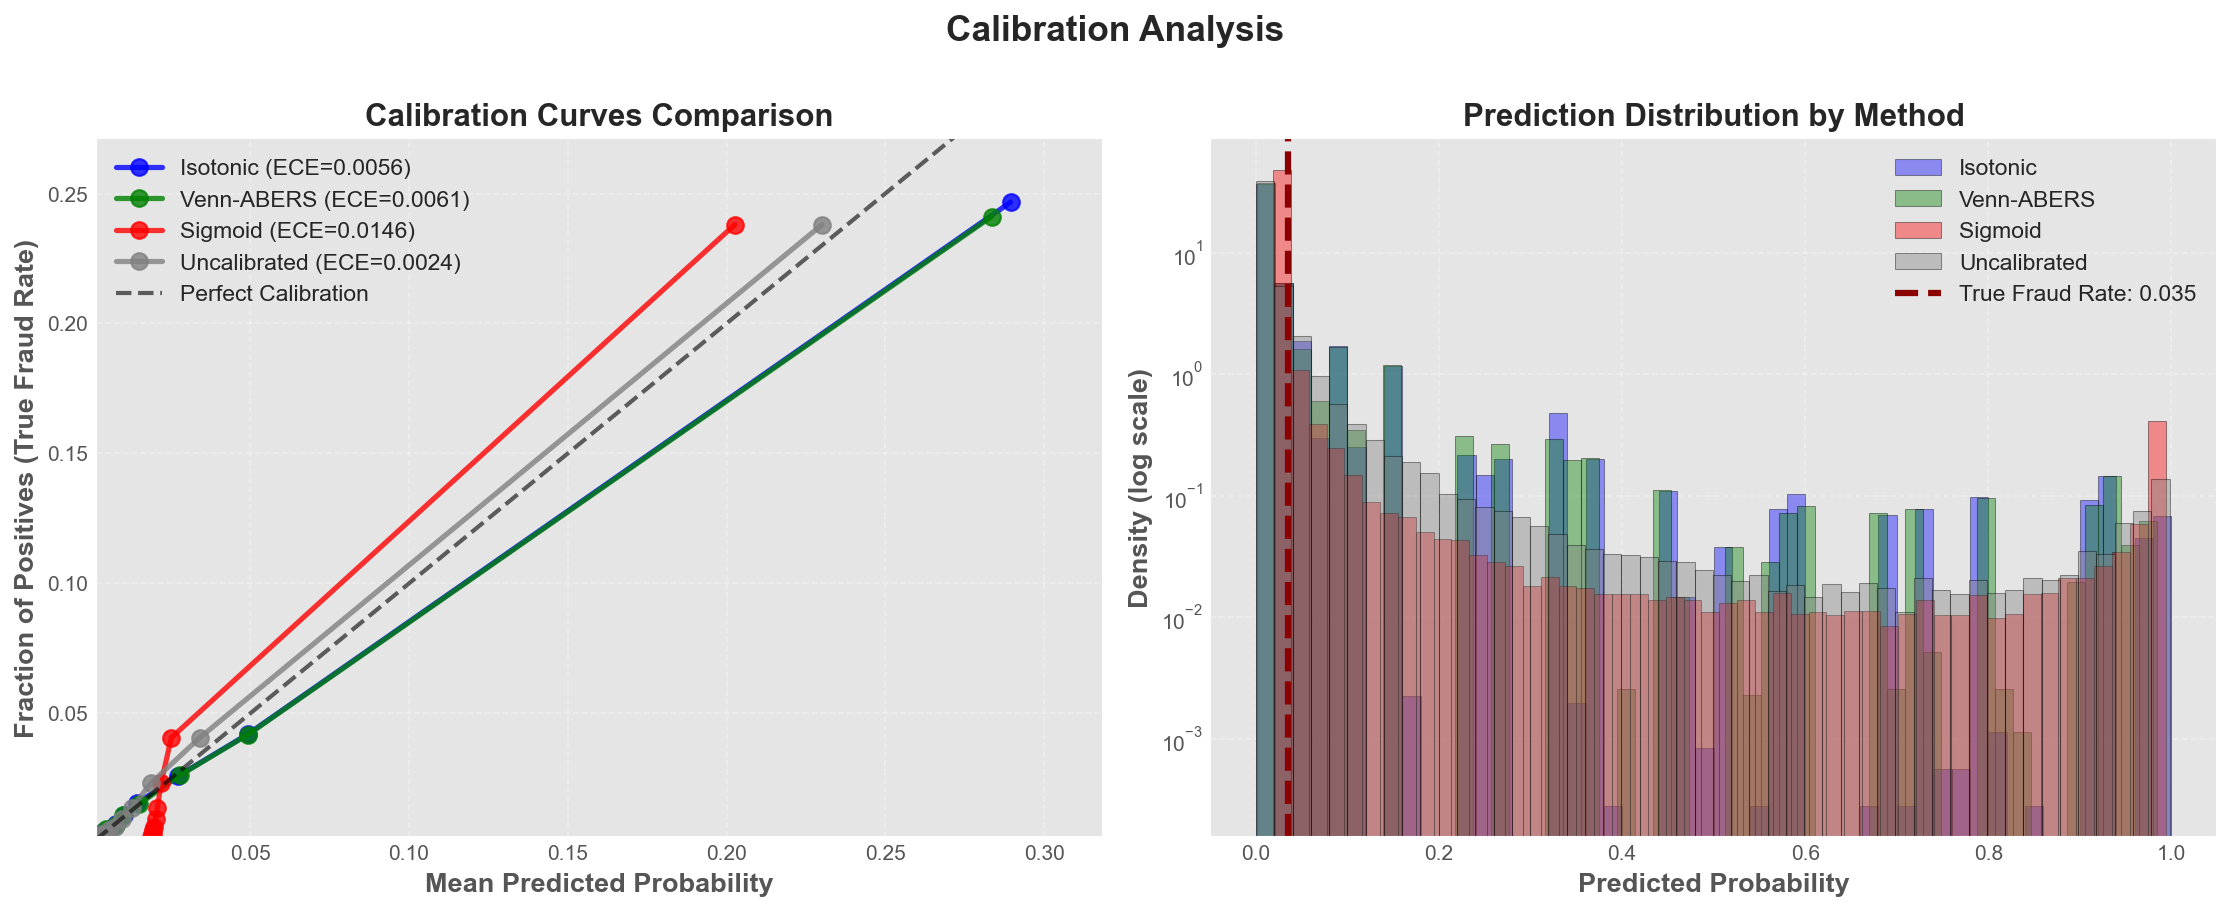
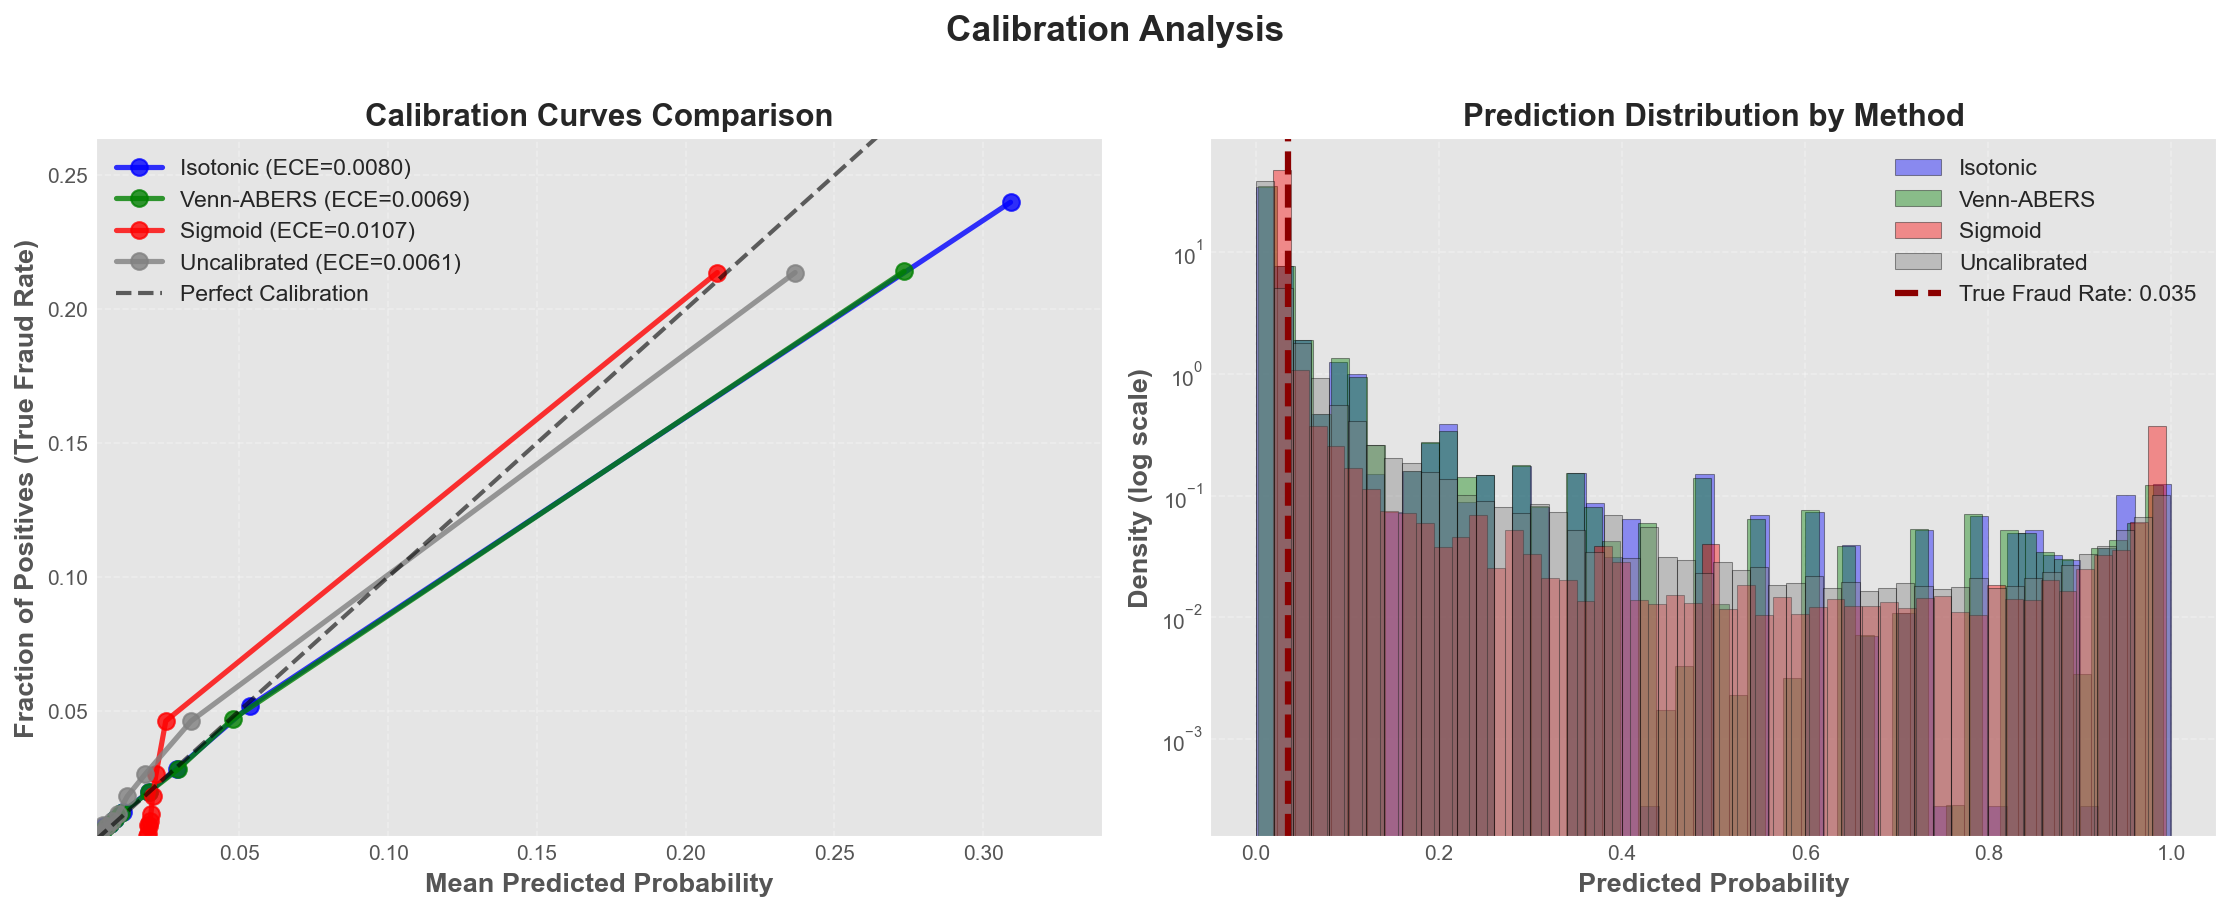
improved calibration

diff --git a/calibrated_clf/calibration.py b/calibrated_clf/calibration.py
@@ -87,6 +87,18 @@ class MultiCalibrationWrapper(BaseEstimator, ClassifierMixin):
             time_column: If provided, sort by this column and use the latest
                 cal_size fraction for calibration (temporal split).
                 If None, use a random stratified split.
+
+        Two-stage API
+        -------------
+        fit(X, y)
+            Splits X into a proper training portion and a calibration portion,
+            refits base_estimator on the former, then fits the calibrator on the latter.
+            Use this when you pass all training data to the wrapper.
+
+        calibrate(X_cal, y_cal)
+            Fits only the calibrator on a pre-split calibration set.
+            base_estimator must already be fitted. Use this when the train/cal
+            split has been done externally (e.g. in compare_calibration_methods).
         """
         self.base_estimator = base_estimator
         self.method = method
@@ -107,11 +119,13 @@ class MultiCalibrationWrapper(BaseEstimator, ClassifierMixin):
         """
         if self.time_column is not None and self.time_column in X.columns:
             X_sorted = X.sort_values(self.time_column)
+            y_sorted = y.loc[X_sorted.index]
             n_cal = max(1, int(len(X_sorted) * self.cal_size))
             X_proper = X_sorted.iloc[:-n_cal]
             X_cal = X_sorted.iloc[-n_cal:]
-            y_proper = y.loc[X_proper.index]
-            y_cal = y.loc[X_cal.index]
+            # Use iloc on the sorted y to avoid duplicated-index ambiguity
+            y_proper = y_sorted.iloc[:-n_cal]
+            y_cal = y_sorted.iloc[-n_cal:]
         else:
             from sklearn.model_selection import train_test_split
 
@@ -121,58 +135,120 @@ class MultiCalibrationWrapper(BaseEstimator, ClassifierMixin):
         return X_proper, X_cal, y_proper, y_cal
 
     def fit(self, X: pd.DataFrame, y: pd.Series):
-        """Fit calibration on top of base estimator."""
+        """Split X internally, refit base_estimator, then fit the calibrator.
+
+        Use this when passing all training data to the wrapper.
+        For the case where the train/cal split was done externally, use calibrate().
+
+        For venn_abers_mode='cross', trains cv_folds sub-models to obtain out-of-fold
+        calibration scores (CVAP), then trains a final model on all data. This avoids
+        wasting cal_size fraction of training data on calibration.
+        """
         self.classes_ = np.unique(y)
 
         if self.method is None or self.method == "none":
-            # No calibration
+            self.calibrator_ = None
+            return self
+
+        from sklearn.base import clone
+
+        if self.method == "venn_abers" and self.venn_abers_mode == "cross":
+            return self._fit_cross_venn_abers(X, y)
+
+        X_proper, X_cal, y_proper, y_cal = self._split_for_calibration(X, y)
+        self.base_estimator = clone(self.base_estimator)
+        self.base_estimator.fit(X_proper, y_proper)
+        return self.calibrate(X_cal, y_cal)
+
+    def _fit_cross_venn_abers(self, X: pd.DataFrame, y: pd.Series):
+        """Fit Cross Venn-ABERS (CVAP) using k-fold out-of-fold predictions.
+
+        Unlike inductive Venn-ABERS (IVAP), CVAP uses all training data for both
+        calibration and the final model:
+
+        1. Split X into cv_folds stratified folds
+        2. For each fold i: train a clone on k-1 folds, predict on fold i
+        3. Collect all out-of-fold (score, label) pairs as the calibration set
+        4. Train the final base_estimator on all of X
+        5. Fit RigorousVennABERSCalibrator on the combined OOF scores
+
+        Compared to IVAP, CVAP provides a larger and more representative
+        calibration set (100% of training data vs cal_size fraction), at the
+        cost of cv_folds + 1 model fits instead of 2.
+        """
+        from sklearn.model_selection import StratifiedKFold
+        from sklearn.base import clone
+
+        kf = StratifiedKFold(
+            n_splits=self.cv_folds, shuffle=True, random_state=self.random_state
+        )
+
+        X_arr = X.values if isinstance(X, pd.DataFrame) else X
+        y_arr = y.values if isinstance(y, pd.Series) else y
+
+        # Pre-allocate OOF scores — each sample gets its score exactly once
+        p_oof = np.zeros(len(y_arr))
+
+        for train_idx, val_idx in kf.split(X_arr, y_arr):
+            X_fold_train = X.iloc[train_idx] if isinstance(X, pd.DataFrame) else X_arr[train_idx]
+            X_fold_val = X.iloc[val_idx] if isinstance(X, pd.DataFrame) else X_arr[val_idx]
+            y_fold_train = y_arr[train_idx]
+
+            fold_model = clone(self.base_estimator)
+            fold_model.fit(X_fold_train, y_fold_train)
+            p_oof[val_idx] = fold_model.predict_proba(X_fold_val)[:, 1]
+
+        # Train final model on all data for use at prediction time
+        self.base_estimator = clone(self.base_estimator)
+        self.base_estimator.fit(X, y)
+
+        # Fit calibrator on the full OOF calibration set
+        self.calibrator_ = RigorousVennABERSCalibrator(precision=3, use_cache=True)
+        self.calibrator_.fit(p_oof, y_arr)
+
+        return self
+
+    def calibrate(self, X_cal: pd.DataFrame, y_cal: pd.Series):
+        """Fit only the calibrator on a pre-split calibration set.
+
+        base_estimator must already be fitted before calling this method.
+        Use this when the train/cal split has been done externally.
+        """
+        from sklearn.utils.validation import check_is_fitted
+
+        check_is_fitted(self.base_estimator)
+
+        if self.classes_ is None:
+            # Prefer classes from the already-fitted base estimator to avoid
+            # missing classes when y_cal is a small or imbalanced subset.
+            if hasattr(self.base_estimator, "classes_"):
+                self.classes_ = self.base_estimator.classes_
+            else:
+                self.classes_ = np.unique(y_cal)
+
+        if self.method is None or self.method == "none":
             self.calibrator_ = None
             return self
 
         elif self.method in ("isotonic", "sigmoid"):
-            from sklearn.base import clone
-
-            X_proper, X_cal, y_proper, y_cal = self._split_for_calibration(X, y)
-
-            # Refit the base model on the proper training portion only
-            self.base_estimator = clone(self.base_estimator)
-            self.base_estimator.fit(X_proper, y_proper)
-
-            # Fit the calibration layer on the held-out (more recent) portion
             self.calibrator_ = CalibratedClassifierCV(
                 estimator=self.base_estimator, method=self.method, cv="prefit"
             )
             self.calibrator_.fit(X_cal, y_cal)
 
         elif self.method == "venn_abers":
-            # Venn-ABERS conformal prediction using rigorous implementation
-            # This avoids the issue of VennAbersCalibrator refitting the pipeline
-            # with numpy arrays when it expects DataFrames
-
-            # For inductive Venn-ABERS, split into proper training and calibration sets
             if self.venn_abers_mode == "inductive":
-                from sklearn.base import clone
-
-                X_proper, X_cal, y_proper, y_cal = self._split_for_calibration(X, y)
-
-                # Refit base model on proper training set only
-                self.base_estimator = clone(self.base_estimator)
-                self.base_estimator.fit(X_proper, y_proper)
-
-                # Get predictions on calibration set
                 p_cal = self.base_estimator.predict_proba(X_cal)[:, 1]
-
-                # Fit RIGOROUS Venn-ABERS calibrator with conformal guarantees
-                # Note: This is slower but mathematically correct
                 self.calibrator_ = RigorousVennABERSCalibrator(
-                    precision=3,  # Round to 3 decimals for speed
-                    use_cache=True,  # Cache results for repeated values
+                    precision=3,
+                    use_cache=True,
                 )
                 self.calibrator_.fit(p_cal, y_cal.values if hasattr(y_cal, "values") else y_cal)
             else:
                 raise NotImplementedError(
-                    "venn_abers_mode='cross' (k-fold cross-conformal) is not yet implemented. "
-                    "Use venn_abers_mode='inductive' instead."
+                    "venn_abers_mode='cross' requires refitting the base model k times "
+                    "and is only available via fit(). For an external calibration split, "
+                    "use venn_abers_mode='inductive' with calibrate()."
                 )
 
         else:
@@ -332,7 +408,10 @@ class VennABERSBinaryCalibrator(BaseEstimator):
         p1 = self.iso_regressor_1_.predict(p_test)
 
         # Combined probability (recommended for decision making)
-        p_combined = p1 / (1 - p0 + p1 + 1e-10)  # Add epsilon for numerical stability
+        # Use np.divide with where= to return 0 when denominator is zero
+        # (occurs when p0=1, p1=0 — unambiguously class 0)
+        denom = 1 - p0 + p1
+        p_combined = np.divide(p1, denom, out=np.zeros_like(p1), where=denom > 0)
 
         # Interval width (uncertainty measure)
         interval_width = p1 - p0
@@ -352,8 +431,10 @@ class RigorousVennABERSCalibrator(BaseEstimator):
     possible labels (0 and 1), fits isotonic regression, and returns the
     prediction intervals [p0, p1] with validity guarantees.
 
-    ⚠ Note: This is O(n_test × n_cal) complexity, so slower than the simplified
-    version, but provides mathematically rigorous conformal prediction intervals.
+    ⚠ Note: Each isotonic fit is O(n_cal log n_cal), so total complexity is
+    O(n_test × n_cal log n_cal). In practice this is bounded by
+    O(min(n_test, 10^precision) × n_cal log n_cal) when use_cache=True,
+    since identical rounded scores are computed only once.
 
     Parameters
     ----------
@@ -422,41 +503,46 @@ class RigorousVennABERSCalibrator(BaseEstimator):
         p0 = np.zeros(n_test)
         p1 = np.zeros(n_test)
 
-        # For each test point, fit isotonic regression with that point added
-        for i, p_t in enumerate(p_test):
-            # Check cache first if enabled
-            cache_key = float(p_t) if self.use_cache else None
+        # Compute only for unique values, then map back — avoids redundant fits
+        # when many test points share the same (rounded) score.
+        unique_vals, inverse = np.unique(p_test, return_inverse=True)
+        p0_unique = np.zeros(len(unique_vals))
+        p1_unique = np.zeros(len(unique_vals))
 
-            # p0: Add (p_t, 0) to calibration set
+        for j, p_t in enumerate(unique_vals):
+            cache_key = float(p_t)
+
             if self.use_cache and cache_key in self._cache_0:
-                p0[i] = self._cache_0[cache_key]
+                p0_unique[j] = self._cache_0[cache_key]
             else:
                 p_cal_0 = np.concatenate([self.p_cal_, [p_t]])
                 y_cal_0 = np.concatenate([self.y_cal_, [0]])
                 iso_0 = IsotonicRegression(out_of_bounds="clip")
                 iso_0.fit(p_cal_0, y_cal_0)
-                p0[i] = iso_0.predict([p_t])[0]
-
+                p0_unique[j] = iso_0.predict([p_t])[0]
                 if self.use_cache:
-                    self._cache_0[cache_key] = p0[i]
+                    self._cache_0[cache_key] = p0_unique[j]
 
-            # p1: Add (p_t, 1) to calibration set
             if self.use_cache and cache_key in self._cache_1:
-                p1[i] = self._cache_1[cache_key]
+                p1_unique[j] = self._cache_1[cache_key]
             else:
                 p_cal_1 = np.concatenate([self.p_cal_, [p_t]])
                 y_cal_1 = np.concatenate([self.y_cal_, [1]])
                 iso_1 = IsotonicRegression(out_of_bounds="clip")
                 iso_1.fit(p_cal_1, y_cal_1)
-                p1[i] = iso_1.predict([p_t])[0]
-
+                p1_unique[j] = iso_1.predict([p_t])[0]
                 if self.use_cache:
-                    self._cache_1[cache_key] = p1[i]
+                    self._cache_1[cache_key] = p1_unique[j]
+
+        p0 = p0_unique[inverse]
+        p1 = p1_unique[inverse]
 
         # Combined probability (recommended for decision making)
-        # This is the Venn-ABERS combination formula
-        epsilon = 1e-10
-        p_combined = p1 / (1 - p0 + p1 + epsilon)
+        # This is the Venn-ABERS combination formula.
+        # Use np.divide with where= to return 0 when denominator is zero
+        # (occurs when p0=1, p1=0 — unambiguously class 0)
+        denom = 1 - p0 + p1
+        p_combined = np.divide(p1, denom, out=np.zeros_like(p1), where=denom > 0)
 
         # Clip to valid probability range
         p_combined = np.clip(p_combined, 0, 1)
@@ -495,11 +581,12 @@ def compare_calibration_methods(
     results = []
 
     for method in methods:
-        # Fit calibrator
+        # The train/cal split was done externally by the caller — use calibrate()
+        # so the base model is not re-split or refitted.
         calibrator = MultiCalibrationWrapper(
-            base_estimator=model, method=method, cal_size=0.2, random_state=RANDOM_SEED
+            base_estimator=model, method=method, random_state=RANDOM_SEED
         )
-        calibrator.fit(X_cal, y_cal)
+        calibrator.calibrate(X_cal, y_cal)
 
         # Predict on test set
         y_pred_proba = calibrator.predict_proba(X_test)[:, 1]
